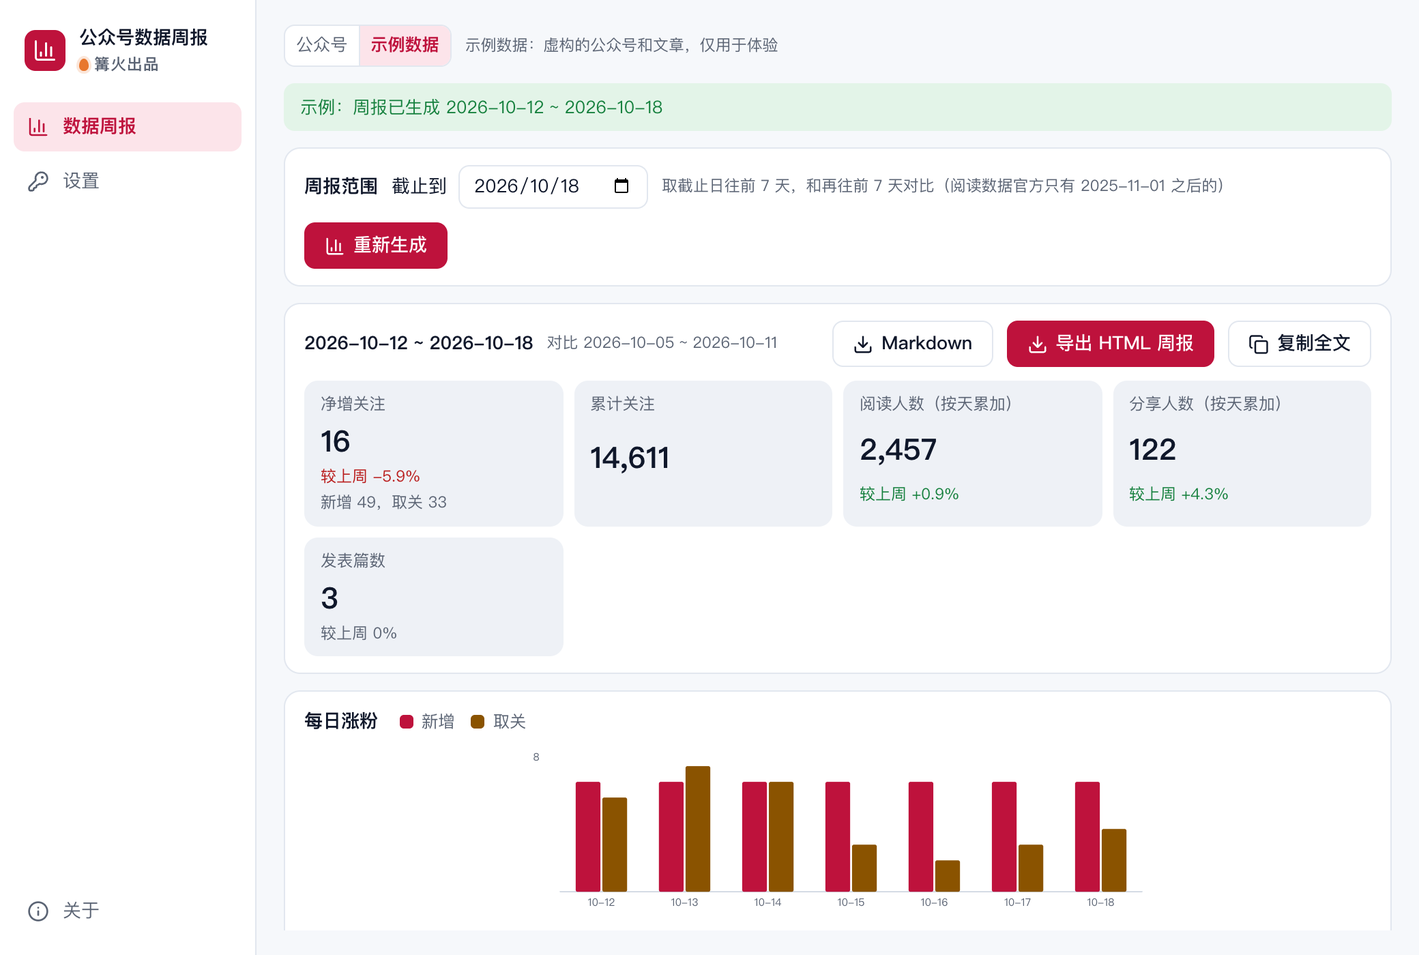
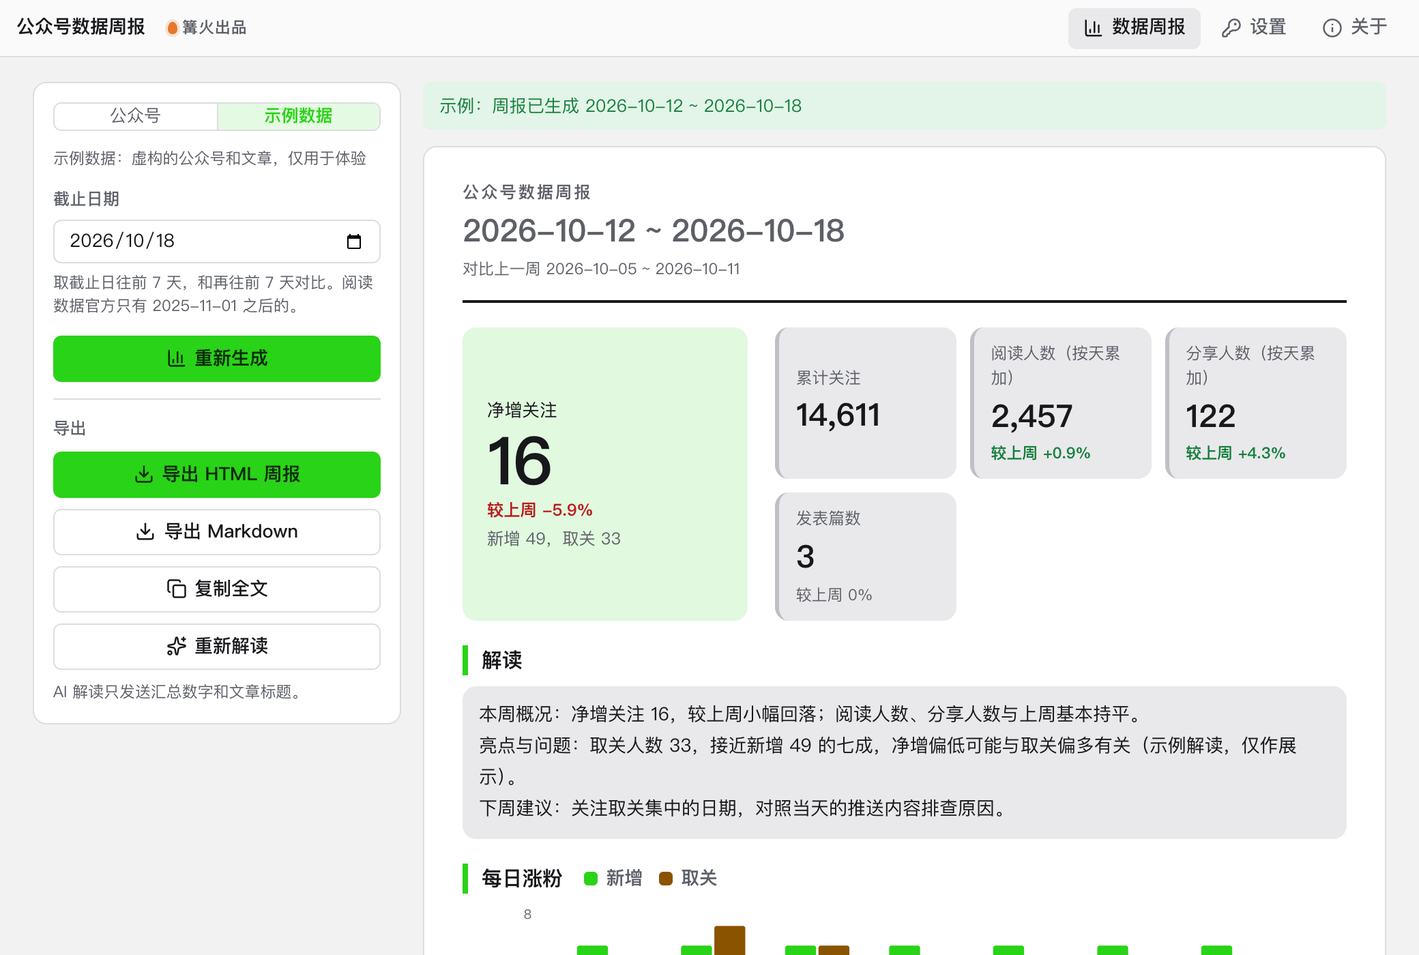
打磨 0.2.0：左侧控制栏加右侧报告纸，净增关注大字与文章阅读排行，界面全中文

diff --git a/src/tool/Main.tsx b/src/tool/Main.tsx
@@ -64,90 +64,130 @@ export function Main({ ctx }: { ctx: Ctx }) {
   const k = useMemo(() => (report ? kpis(report) : []), [report]);
   const endErr = end > defaultEndDate(Date.now()) && !preview ? '截止日期最晚是昨天（早上 8 点前最晚是前天）' : !/^\d{4}-\d{2}-\d{2}$/.test(end) ? '请选择日期' : '';
   const idle = busy === '';
+  const maxRead = Math.max(1, ...(report?.articles ?? []).map((a) => a.read));
+  const hero = k[0];
+  const rest = k.slice(1);
+  const trend = (c?: string | null) => (c?.startsWith('+') ? 'up' : c?.startsWith('-') ? 'down' : '');
   return (
     <div className="mp-root">
-      <div className="mp-top">
-        <SourceSwitch conn={conn} disabled={!idle} />
-        {conn.source === 'demo' && <span className="k-help">示例数据：虚构的公众号和文章，仅用于体验</span>}
-      </div>
-      {conn.source === 'mp' && <SetupPanel conn={conn} open={setupOpen || !conn.ready} setOpen={setSetupOpen} onMsg={setNotice} />}
-      {notice && <div className={`k-notice ${notice.kind}`} role="status">{notice.text}</div>}
-
-      <section className="k-panel mp-card">
-        <div className="mp-hd">
-          <b>周报范围</b>
-          <label className="mp-date">截止到<input className="k-input" type="date" value={end} max={preview ? undefined : defaultEndDate(Date.now())} onChange={(e) => setEnd(e.target.value)} aria-label="截止日期" /></label>
-          <span className="k-help">取截止日往前 7 天，和再往前 7 天对比（阅读数据官方只有 {CONTENT_DATA_START} 之后的）</span>
-          <span className="mp-grow" />
-          <button className="k-btn primary" disabled={!idle || !conn.ready || !!endErr} onClick={() => void generate()}>{busy === 'fetch' ? <Loader2 size={15} className="k-spin" /> : <BarChart3 size={15} />}{report ? '重新生成' : '生成周报'}</button>
-        </div>
-        {endErr && <p className="mp-bad">{endErr}</p>}
-        {busy === 'fetch' && <div className="mp-progress"><Loader2 size={15} className="k-spin" />{progress || '处理中…'}<button className="k-btn" onClick={() => stop.current?.abort()}>停止</button></div>}
-      </section>
-
-      {report && (
-        <>
-          <section className="k-panel mp-card">
-            <div className="mp-hd">
-              <b>{report.cur.begin} ~ {report.cur.end}</b><span className="k-help">对比 {report.prev.begin} ~ {report.prev.end}</span><span className="mp-grow" />
-              <button className="k-btn" disabled={!idle} onClick={() => void save('md')}><Download size={15} />Markdown</button>
-              <button className="k-btn primary" disabled={!idle} onClick={() => void save('html')}><Download size={15} />导出 HTML 周报</button>
+      <aside className="mp-side">
+        <div className="mp-side-in">
+          <SourceSwitch conn={conn} disabled={!idle} />
+          {conn.source === 'demo' && <span className="k-help">示例数据：虚构的公众号和文章，仅用于体验</span>}
+          {conn.source === 'mp' && <SetupPanel conn={conn} open={setupOpen || !conn.ready} setOpen={setSetupOpen} onMsg={setNotice} />}
+          <div className="k-field">
+            <label className="k-label" htmlFor="mp-end">截止日期</label>
+            <input id="mp-end" className="k-input" type="date" value={end} max={preview ? undefined : defaultEndDate(Date.now())} onChange={(e) => setEnd(e.target.value)} />
+            <span className="k-help">取截止日往前 7 天，和再往前 7 天对比。阅读数据官方只有 {CONTENT_DATA_START} 之后的。</span>
+          </div>
+          {endErr && <p className="mp-bad">{endErr}</p>}
+          <button className="k-btn primary mp-wide" disabled={!idle || !conn.ready || !!endErr} onClick={() => void generate()}>{busy === 'fetch' ? <Loader2 size={15} className="k-spin" /> : <BarChart3 size={15} />}{report ? '重新生成' : '生成周报'}</button>
+          {busy === 'fetch' && <div className="mp-progress"><Loader2 size={15} className="k-spin" />{progress || '处理中…'}<button className="k-btn" onClick={() => stop.current?.abort()}>停止</button></div>}
+          {report && (
+            <div className="mp-out">
+              <span className="k-label">导出</span>
+              <button className="k-btn primary mp-wide" disabled={!idle} onClick={() => void save('html')}><Download size={15} />导出 HTML 周报</button>
+              <button className="k-btn mp-wide" disabled={!idle} onClick={() => void save('md')}><Download size={15} />导出 Markdown</button>
               <CopyButton text={reportMarkdown(report, ai)} label="复制全文" />
+              <button className="k-btn mp-wide" disabled={!idle || (!llmReady(settings.llm) && !preview)} onClick={() => void runAi()}>{busy === 'ai' ? <Loader2 size={15} className="k-spin" /> : <Sparkles size={15} />}{ai ? '重新解读' : '让 AI 解读'}</button>
+              {!llmReady(settings.llm) && !preview && <p className="mp-bad">还没配置大模型：到本工具的「设置」页填接口地址、密钥和模型名（兼容 OpenAI 接口格式）。</p>}
+              <span className="k-help">AI 解读只发送汇总数字和文章标题。</span>
             </div>
-            <div className="mp-kpis">
-              {k.map((x) => (
-                <div key={x.label} className="mp-kpi"><span>{x.label}</span><b className="k-num">{x.value}</b>
-                  <i className={x.change?.startsWith('+') ? 'up' : x.change?.startsWith('-') ? 'down' : ''}>{x.change ? `较上周 ${x.change}` : x.note ?? ' '}</i>
-                  {x.change && x.note && <i>{x.note}</i>}
+          )}
+        </div>
+      </aside>
+
+      <main className="mp-main">
+        {notice && <div className={`k-notice ${notice.kind}`} role="status">{notice.text}</div>}
+        {!report && idle && (
+          <section className="mp-empty">
+            <svg className="mp-art" viewBox="0 0 360 130" role="img" aria-label="两周的公众号数据汇成一页周报">
+              <rect x="10" y="30" width="86" height="80" rx="6" fill="var(--chip)" /><rect x="22" y="80" width="10" height="20" fill="var(--muted)" /><rect x="40" y="62" width="10" height="38" fill="var(--muted)" /><rect x="58" y="70" width="10" height="30" fill="var(--muted)" />
+              <text x="53" y="24" textAnchor="middle" fontSize="13" fill="var(--muted)">上周</text>
+              <rect x="116" y="30" width="86" height="80" rx="6" fill="var(--primary-soft)" /><rect x="128" y="62" width="10" height="38" fill="var(--primary)" /><rect x="146" y="46" width="10" height="54" fill="var(--primary)" /><rect x="164" y="54" width="10" height="46" fill="var(--primary)" />
+              <text x="159" y="24" textAnchor="middle" fontSize="13" fill="var(--ink)">本周</text>
+              <path d="M214 70h30m-8-8l8 8-8 8" stroke="var(--muted)" strokeWidth="2" fill="none" />
+              <rect x="256" y="10" width="94" height="110" rx="6" fill="var(--surface)" stroke="var(--line-strong)" />
+              <rect x="266" y="22" width="40" height="8" rx="3" fill="var(--ink)" /><rect x="266" y="40" width="74" height="6" rx="3" fill="var(--chip)" /><rect x="266" y="54" width="74" height="6" rx="3" fill="var(--chip)" /><rect x="266" y="68" width="52" height="6" rx="3" fill="var(--chip)" /><rect x="266" y="90" width="74" height="18" rx="3" fill="var(--primary-soft)" />
+            </svg>
+            <b>两周的公众号数据，汇成一页带环比的周报</b>
+            <span className="k-muted">先在左侧连接公众号（或切到「示例数据」体验），选好截止日期，点「生成周报」。</span>
+          </section>
+        )}
+
+        {report && (
+          <article className="mp-paper">
+            <header className="mp-mast">
+              <span className="mp-eyebrow">公众号数据周报</span>
+              <h2>{report.cur.begin} ~ {report.cur.end}</h2>
+              <span className="k-help">对比上一周 {report.prev.begin} ~ {report.prev.end}</span>
+            </header>
+
+            {hero && (
+              <div className="mp-hero">
+                <div className="mp-hero-main">
+                  <span>{hero.label}</span>
+                  <b className="k-num">{hero.value}</b>
+                  <i className={`mp-delta ${trend(hero.change)}`}>{hero.change ? `较上周 ${hero.change}` : hero.note ?? ' '}</i>
+                  {hero.change && hero.note && <em>{hero.note}</em>}
                 </div>
-              ))}
-            </div>
+                <div className="mp-rest">
+                  {rest.map((x) => (
+                    <div key={x.label} className="mp-kpi"><span>{x.label}</span><b className="k-num">{x.value}</b>
+                      <i className={`mp-delta ${trend(x.change)}`}>{x.change ? `较上周 ${x.change}` : x.note ?? ' '}</i>
+                    </div>
+                  ))}
+                </div>
+              </div>
+            )}
             {!report.prevReadable && report.readTotals && <p className="k-help">上一周在 {CONTENT_DATA_START} 之前，阅读数据没有可比的上周。</p>}
-          </section>
 
-          {report.userDays && (
-            <section className="k-panel mp-card">
-              <div className="mp-hd"><b>每日涨粉</b><span className="mp-legend"><i className="mp-dot new" />新增<i className="mp-dot cancel" />取关</span></div>
-              <div dangerouslySetInnerHTML={{ __html: pairBarsSvg(report.userDays) }} />
-              {report.userDays.some((d) => d.cumulate !== null) && <><span className="k-help">累计关注人数</span><div dangerouslySetInnerHTML={{ __html: lineSvg(report.userDays.map((d) => d.date), report.userDays.map((d) => d.cumulate), 'mp-line-cum', '累计关注人数') }} /></>}
-              {report.bySource.length > 0 && (
-                <div className="k-scroll mp-tablebox"><table className="k-table"><thead><tr><th>关注渠道</th><th>新增</th><th>取关</th></tr></thead>
-                  <tbody>{report.bySource.map((s) => <tr key={s.source}><td>{s.source}</td><td className="k-num">{s.newUser}</td><td className="k-num">{s.cancelUser}</td></tr>)}</tbody></table></div>
-              )}
-            </section>
-          )}
+            {ai && <section className="mp-sec"><h3>解读</h3><p className="mp-ai">{ai}</p></section>}
 
-          {report.readDays && (
-            <section className="k-panel mp-card">
-              <div className="mp-hd"><b>每日阅读人数</b><span className="k-help">每天的阅读人数；周合计是每天相加，同一个人不同天阅读会重复计</span></div>
-              <div dangerouslySetInnerHTML={{ __html: lineSvg(report.readDays.map((d) => d.date), report.readDays.map((d) => d.read), 'mp-line-read', '每日阅读人数') }} />
-              {report.readSources.length > 0 && <p className="k-help">阅读来源（按天累加）：{report.readSources.map((s) => `${s.scene} ${fmtNum(s.users)}`).join('，')}</p>}
-            </section>
-          )}
+            {report.userDays && (
+              <section className="mp-sec">
+                <h3>每日涨粉<span className="mp-legend"><i className="mp-dot new" />新增<i className="mp-dot cancel" />取关</span></h3>
+                <div dangerouslySetInnerHTML={{ __html: pairBarsSvg(report.userDays) }} />
+                {report.userDays.some((d) => d.cumulate !== null) && <><span className="k-help">累计关注人数</span><div dangerouslySetInnerHTML={{ __html: lineSvg(report.userDays.map((d) => d.date), report.userDays.map((d) => d.cumulate), 'mp-line-cum', '累计关注人数') }} /></>}
+                {report.bySource.length > 0 && (
+                  <div className="k-scroll mp-tablebox"><table className="k-table"><thead><tr><th>关注渠道</th><th>新增</th><th>取关</th></tr></thead>
+                    <tbody>{report.bySource.map((s) => <tr key={s.source}><td>{s.source}</td><td className="k-num">{s.newUser}</td><td className="k-num">{s.cancelUser}</td></tr>)}</tbody></table></div>
+                )}
+              </section>
+            )}
 
-          <section className="k-panel mp-card">
-            <div className="mp-hd"><b>AI 解读</b><span className="k-help">可选。只把汇总数字和文章标题发给你在设置页配置的大模型</span><span className="mp-grow" />
-              <button className="k-btn" disabled={!idle || (!llmReady(settings.llm) && !preview)} onClick={() => void runAi()}>{busy === 'ai' ? <Loader2 size={15} className="k-spin" /> : <Sparkles size={15} />}{ai ? '重新解读' : '让 AI 解读'}</button></div>
-            {!llmReady(settings.llm) && !preview && <p className="mp-bad">还没配置大模型：到本工具的「设置」页填接口地址、密钥和模型名（兼容 OpenAI 接口格式）。</p>}
-            {ai && <p className="mp-ai">{ai}</p>}
-          </section>
+            {report.readDays && (
+              <section className="mp-sec">
+                <h3>每日阅读人数</h3><span className="k-help">每天的阅读人数；周合计是每天相加，同一个人不同天阅读会重复计</span>
+                <div dangerouslySetInnerHTML={{ __html: lineSvg(report.readDays.map((d) => d.date), report.readDays.map((d) => d.read), 'mp-line-read', '每日阅读人数') }} />
+                {report.readSources.length > 0 && <p className="k-help">阅读来源（按天累加）：{report.readSources.map((s) => `${s.scene} ${fmtNum(s.users)}`).join('，')}</p>}
+              </section>
+            )}
 
-          {report.articles && (
-            <section className="k-panel mp-card">
-              <div className="mp-hd"><b>本周发表的文章</b><span className="k-help">按阅读人数排序；指标是发表日至统计日的累计（官方每篇只统计发表后 30 天）</span></div>
-              {report.articles.length === 0 ? <p className="k-muted">本周没有发表文章。</p> : (
-                <div className="k-scroll mp-tablebox"><table className="k-table">
-                  <thead><tr><th>文章</th><th>发表日</th><th>阅读人数</th><th>分享</th><th>在看</th><th>点赞</th><th>留言</th><th>阅读后关注</th><th>读完率</th></tr></thead>
-                  <tbody>{report.articles.map((a) => <tr key={a.msgid}><td className="mp-title">{a.title}</td><td className="k-num">{a.publishDate}</td><td className="k-num"><b>{fmtNum(a.read)}</b></td><td className="k-num">{a.share}</td><td className="k-num">{a.zaikan}</td><td className="k-num">{a.like}</td><td className="k-num">{a.comment}</td><td className="k-num">{a.readSubscribe}</td><td className="k-num">{fmtRate(a.finishRate)}</td></tr>)}</tbody>
-                </table></div>
-              )}
-            </section>
-          )}
+            {report.articles && (
+              <section className="mp-sec">
+                <h3>本周发表的文章</h3><span className="k-help">按阅读人数排序；指标是发表日至统计日的累计（官方每篇只统计发表后 30 天）</span>
+                {report.articles.length === 0 ? <p className="k-muted">本周没有发表文章。</p> : (
+                  <ol className="mp-rank">
+                    {report.articles.map((a, i) => (
+                      <li key={a.msgid} className="mp-art-row">
+                        <span className="mp-no k-num">{i + 1}</span>
+                        <div className="mp-art-body">
+                          <div className="mp-art-t"><b>{a.title}</b><span className="k-muted k-num">{a.publishDate}</span></div>
+                          <div className="mp-bar"><i style={{ width: `${(a.read / maxRead) * 100}%` }} /></div>
+                          <div className="mp-art-n k-num"><span>阅读 <b>{fmtNum(a.read)}</b></span><span>分享 {a.share}</span><span>在看 {a.zaikan}</span><span>点赞 {a.like}</span><span>留言 {a.comment}</span><span>阅读后关注 {a.readSubscribe}</span><span>读完率 {fmtRate(a.finishRate)}</span></div>
+                        </div>
+                      </li>
+                    ))}
+                  </ol>
+                )}
+              </section>
+            )}
 
-          {Object.entries(report.errors).map(([key, text]) => <div key={key} className="k-notice err">{({ users: '涨粉数据', cumulate: '累计关注数据', biz: '阅读数据', articles: '文章明细' } as Record<string, string>)[key]}没有取到：{text}</div>)}
-        </>
-      )}
-      {!report && idle && <section className="k-panel mp-empty"><BarChart3 size={26} /><b>一键生成公众号数据周报</b><span className="k-muted">先连接公众号（或切到「示例数据」体验），选好截止日期，点「生成周报」。</span></section>}
+            {Object.entries(report.errors).map(([key, text]) => <div key={key} className="k-notice err">{({ users: '涨粉数据', cumulate: '累计关注数据', biz: '阅读数据', articles: '文章明细' } as Record<string, string>)[key]}没有取到：{text}</div>)}
+          </article>
+        )}
+      </main>
     </div>
   );
 }

diff --git a/src/tool/tool.css b/src/tool/tool.css
@@ -32,3 +32,46 @@
 .mp-tablebox { max-height: 300px; }
 .mp-title { max-width: 280px; overflow: hidden; text-overflow: ellipsis; white-space: nowrap; }
 .mp-empty { display: grid; justify-items: center; gap: 8px; padding: 36px 24px; text-align: center; }
+
+/* 0.2.0 打磨：左侧控制栏 + 右侧报告纸 */
+.mp-root { flex-direction: row; gap: 16px; overflow: hidden; }
+.mp-root > * { flex: none; }
+.mp-side { width: 270px; overflow: auto; }
+.mp-side-in { display: grid; gap: 12px; align-content: start; padding: 14px; border-radius: var(--radius-lg); background: var(--surface); border: 1px solid var(--line); }
+.mp-wide { width: 100%; }
+.mp-out { display: grid; gap: 8px; padding-top: 12px; border-top: 1px solid var(--line); }
+.mp-main { flex: 1 1 auto; min-width: 0; overflow: auto; display: flex; flex-direction: column; gap: 12px; }
+.mp-main > * { flex: none; }
+.mp-paper { display: grid; gap: 18px; padding: 24px 28px; border-radius: var(--radius-lg); background: var(--surface); border: 1px solid var(--line); box-shadow: 0 1px 0 var(--line); }
+.mp-mast { display: grid; gap: 2px; padding-bottom: 14px; border-bottom: 2px solid var(--ink); }
+.mp-eyebrow { font-size: .9em; letter-spacing: .12em; color: var(--muted); font-weight: 600; }
+.mp-mast h2 { margin: 0; font-size: 1.7em; letter-spacing: -.01em; }
+.mp-hero { display: grid; grid-template-columns: minmax(180px, 1fr) 2fr; gap: 20px; align-items: stretch; }
+.mp-hero-main { display: grid; align-content: center; gap: 2px; padding: 14px 18px; border-radius: var(--radius-lg); background: var(--primary-soft); }
+.mp-hero-main span { color: var(--ink); font-size: .95em; }
+.mp-hero-main b { font-size: 3.6em; line-height: 1.05; font-weight: 800; letter-spacing: -.02em; }
+.mp-hero-main em { font-style: normal; font-size: .9em; color: var(--muted); }
+.mp-rest { display: grid; grid-template-columns: repeat(auto-fit, minmax(130px, 1fr)); gap: 10px; }
+.mp-kpi { display: grid; align-content: center; gap: 2px; padding: 10px 12px; border-left: 3px solid var(--line-strong); }
+.mp-kpi b { font-size: 1.7em; font-weight: 700; }
+.mp-delta { font-style: normal; font-size: .9em; color: var(--muted); }
+.mp-delta.up { color: var(--ok); font-weight: 600; } .mp-delta.down { color: var(--err); font-weight: 600; }
+.mp-sec { display: grid; gap: 8px; }
+.mp-sec h3 { margin: 0; display: flex; align-items: center; gap: 10px; font-size: 1.1em; padding-left: 10px; border-left: 4px solid var(--primary); }
+.mp-sec p { margin: 0; }
+.mp-rank { list-style: none; margin: 0; padding: 0; display: grid; gap: 12px; }
+.mp-art-row { display: grid; grid-template-columns: 30px 1fr; gap: 10px; align-items: start; }
+.mp-no { font-size: 1.3em; font-weight: 800; color: var(--muted); text-align: center; }
+.mp-art-row:first-child .mp-no { color: var(--primary); }
+.mp-art-body { display: grid; gap: 4px; min-width: 0; }
+.mp-art-t { display: flex; justify-content: space-between; gap: 10px; flex-wrap: wrap; }
+.mp-bar { height: 8px; border-radius: 4px; background: var(--chip); overflow: hidden; }
+.mp-bar i { display: block; height: 100%; background: var(--primary); border-radius: 4px; }
+.mp-art-n { display: flex; flex-wrap: wrap; gap: 4px 14px; font-size: .92em; color: var(--muted); }
+.mp-art-n b { color: var(--ink); }
+.mp-art { width: min(100%, 440px); height: auto; }
+.mp-empty { display: grid; justify-items: center; gap: 10px; padding: 48px 24px; text-align: center; border-radius: var(--radius-lg); border: 1px dashed var(--line-strong); }
+.mp-svg { max-height: 150px; }
+@media (max-width: 820px) { .mp-root { flex-direction: column; overflow: auto; } .mp-side { width: auto; overflow: visible; } .mp-main { overflow: visible; } .mp-hero { grid-template-columns: 1fr; } }
+.mp-root .k-btn.primary { color: #0A2A07; font-weight: 600; }
+.mp-hero-main { background: color-mix(in srgb, var(--primary) 14%, var(--surface)); }

diff --git a/src/tool/Setup.tsx b/src/tool/Setup.tsx
@@ -75,12 +75,12 @@ export function SetupPanel({ conn, open, setOpen, onMsg }: { conn: Conn; open: b
       {open && (
         <div className="wx-setup-body">
           <div className="wx-setup-grid">
-            <div className="k-field"><label className="k-label" htmlFor="mp-appid">AppID</label><input id="mp-appid" className="k-input" autoComplete="off" value={draft.appId} placeholder="wx 开头的 18 位" onChange={(e) => setDraft({ ...draft, appId: e.target.value })} /></div>
-            <div className="k-field"><label className="k-label" htmlFor="mp-secret">AppSecret</label><input id="mp-secret" className="k-input" type="password" autoComplete="off" value={draft.appSecret} placeholder="开发密钥里的 AppSecret" onChange={(e) => setDraft({ ...draft, appSecret: e.target.value })} /></div>
+            <div className="k-field"><label className="k-label" htmlFor="mp-appid">AppID（应用 ID）</label><input id="mp-appid" className="k-input" autoComplete="off" value={draft.appId} placeholder="公众号的 AppID（应用 ID），共 18 位" onChange={(e) => setDraft({ ...draft, appId: e.target.value })} /></div>
+            <div className="k-field"><label className="k-label" htmlFor="mp-secret">AppSecret（应用密钥）</label><input id="mp-secret" className="k-input" type="password" autoComplete="off" value={draft.appSecret} placeholder="开发密钥里的 AppSecret" onChange={(e) => setDraft({ ...draft, appSecret: e.target.value })} /></div>
           </div>
           <ol className="wx-pre">
             <li>数据统计接口只开放给<b>已认证</b>的公众号 / 服务号（官方文档写明「仅认证」），未认证的账号会提示没有权限。</li>
-            <li>到「微信开发者平台（developers.weixin.qq.com/platform）→ 我的业务 → 选择这个公众号 → 开发密钥」复制 AppID，生成并复制 <b>AppSecret</b>（只显示一次）。</li>
+            <li>到「微信开发者平台（微信官方网站）→ 我的业务 → 选择这个公众号 → 开发密钥」复制 AppID，生成并复制 <b>AppSecret</b>（只显示一次）。</li>
             <li>在同一页的「<b>API IP 白名单</b>」里加入本机所在网络的公网出口 IP（要固定 IP，动态 IP 会变），否则报 40164。</li>
             <li>数据每天<b>早上 8 点后</b>才有前一天的数据，所以最好在周一上午 8 点后生成上周周报。</li>
           </ol>

diff --git a/src/tool/mp.ts b/src/tool/mp.ts
@@ -56,7 +56,7 @@ export function wxErrorText(code: number, errmsg = ''): string {
   const base = ERRORS[code];
   if (code === 40164) {
     const ip = ipFromErrmsg(errmsg);
-    return `${base}${ip ? `（微信看到的 IP 是 ${ip}）` : ''}。请打开「微信开发者平台（developers.weixin.qq.com/platform）→ 扫码登录 → 我的业务 → 选择这个公众号」，在「API IP 白名单」里加入这个 IP，保存后几分钟再试`;
+    return `${base}${ip ? `（微信看到的 IP 是 ${ip}）` : ''}。请打开「微信开发者平台（微信官方网站）→ 扫码登录 → 我的业务 → 选择这个公众号」，在「API IP 白名单」里加入这个 IP，保存后几分钟再试`;
   }
   const short = errmsg.replace(/\s*rid:.*$/, '').replace(/,?\s*more details at \S+/, '').trim();
   return base ? `${base}（错误码 ${code}）` : `微信接口返回错误 ${code}${short ? `：${short}` : ''}`;

diff --git a/CHANGELOG.md b/CHANGELOG.md
@@ -1,5 +1,14 @@
 # 更新记录
 
+## 0.2.0
+
+- 布局改为「左侧控制栏 + 右侧报告纸」：日期、生成、导出、AI 解读都在左边，右边像一页真正的周报。
+- 报告顶部突出「净增关注」大字和较上周的涨跌，其余指标并排显示，涨跌用颜色区分。
+- 本周文章改成阅读排行：每篇带横条，一眼看出谁读得最多。
+- 新增空状态示意图（两周数据汇成一页周报）。
+- 公众号设置里的 AppID、AppSecret 加上中文说明，去掉英文网址。
+- 重写上架文案，增加使用场景。功能和数据逻辑不变。
+
 ## 0.1.0
 
 - 首个版本。
